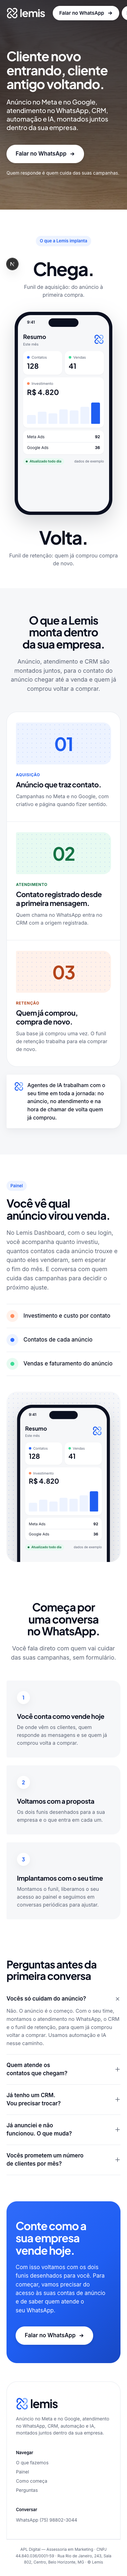
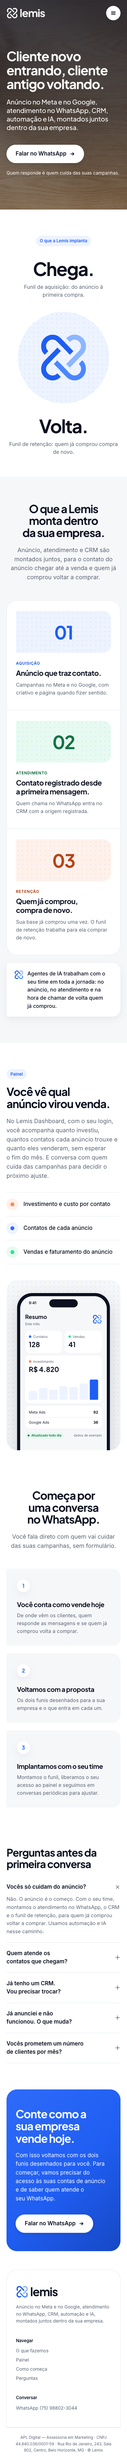
feat(site): celular só no hero e no Painel; laço no Chega/Volta e na chamada final
Revisão do Patrão: o mesmo celular aparecia quatro vezes. O indicador "N" das
capturas era do next dev; capturas refeitas no build. Lighthouse celular 97,
desktop 100, CLS 0.

diff --git a/src/components/secoes/Palco.tsx b/src/components/secoes/Palco.tsx
@@ -1,10 +1,11 @@
 import { palco } from "@/lib/conteudo";
-import { Celular } from "../Celular";
 import { Etiqueta } from "../ui/Etiqueta";
 
-// O celular no centro e as duas palavras dos lados, como no protótipo: "Chega." (aquisição) à
-// esquerda, "Volta." (retenção) à direita, com o mesmo peso (decisão 5 da copy). No celular, as
-// palavras vão para cima e para baixo do aparelho.
+// As duas palavras dos lados, como no protótipo: "Chega." (aquisição) à esquerda, "Volta."
+// (retenção) à direita, com o mesmo peso (decisão 5 da copy). No centro, o laço grande sobre o
+// pontilhado: o manual o descreve como a ligação contínua, o funil que não perde o cliente. O celular
+// do painel já aparece no hero e na seção Painel (revisão do Patrão, 23/10: quatro celulares iguais
+// ficavam repetitivos).
 export function Palco() {
   return (
     <section aria-labelledby="palco-etiqueta" className="overflow-hidden pt-20 pb-16 lg:pt-[120px] lg:pb-10">
@@ -14,7 +15,10 @@ export function Palco() {
         </p>
         <div className="mt-10 grid items-center gap-10 lg:grid-cols-[1fr_auto_1fr] lg:gap-8">
           <Lado palavra={palco.esquerda.palavra} linha={palco.esquerda.linha} lado="esquerda" />
-          <Celular className="mx-auto lg:order-none" />
+          <div aria-hidden="true" className="pontos mx-auto grid size-[280px] place-items-center rounded-full bg-azul-50 sm:size-[340px] lg:size-[420px]">
+            {/* eslint-disable-next-line @next/next/no-img-element -- laço da marca */}
+            <img src="/marca/simbolo-cor.svg" alt="" width={220} height={220} className="size-[150px] sm:size-[180px] lg:size-[220px]" />
+          </div>
           <Lado palavra={palco.direita.palavra} linha={palco.direita.linha} lado="direita" />
         </div>
       </div>

diff --git a/src/components/secoes/ChamadaFinal.tsx b/src/components/secoes/ChamadaFinal.tsx
@@ -1,12 +1,13 @@
 import { chamadaFinal } from "@/lib/conteudo";
-import { Celular } from "../Celular";
 import { BotaoWhatsApp } from "../ui/BotaoWhatsApp";
 
-// O bloco azul do fim (protótipo): o próximo passo concreto e o celular inclinado, cortado pela base.
+// O bloco azul do fim (protótipo): o próximo passo concreto e, à direita, o laço claro sobre o azul
+// (`simbolo-claros-sobre-azul`, manual §1), grande e cortado pela borda. O celular saiu daqui para não
+// repetir a mesma tela pela quarta vez (revisão do Patrão, 23/10).
 export function ChamadaFinal() {
   return (
     <section aria-labelledby="chamada-titulo" className="px-5 sm:px-10 lg:px-14">
-      <div className="gradiente-final relative mx-auto grid max-w-[1328px] overflow-hidden rounded-xl px-7 pt-14 pb-14 sm:px-12 lg:h-[520px] lg:grid-cols-[1.1fr_1fr] lg:px-20 lg:pt-20 lg:pb-0">
+      <div className="gradiente-final relative mx-auto grid max-w-[1328px] overflow-hidden rounded-xl px-7 pt-14 pb-14 sm:px-12 lg:min-h-[440px] lg:grid-cols-[1.1fr_1fr] lg:items-center lg:px-20 lg:py-20">
         <div>
           <h2 id="chamada-titulo" className="text-[34px] leading-[1.1] tracking-[-0.035em] text-white lg:text-[44px]">
             {chamadaFinal.titulo}
@@ -17,9 +18,8 @@ export function ChamadaFinal() {
           </BotaoWhatsApp>
         </div>
         <div aria-hidden="true" className="relative hidden lg:block">
-          <div className="absolute top-2.5 left-[150px] rotate-6">
-            <Celular />
-          </div>
+          {/* eslint-disable-next-line @next/next/no-img-element -- laço da marca */}
+          <img src="/marca/simbolo-claros-sobre-azul.svg" alt="" width={460} height={460} className="absolute top-1/2 -right-16 size-[460px] -translate-y-1/2" />
         </div>
       </div>
     </section>

diff --git a/docs/demanda-2026-10-23-site/RESUMO.md b/docs/demanda-2026-10-23-site/RESUMO.md
@@ -23,6 +23,11 @@ Branch `feat/site-identidade-nova`, aberta da main em `a30c287` (worktree `~/Pro
 - Contraste dos pares novos ≥ 4,5:1. O mais apertado é branco sobre o topo do degradê, 4,56:1, igual ao manual.
 - Capturas em `capturas/`: desktop 1440 (página inteira), celular 390 (página inteira e telas), menu do celular aberto, tablet 768 e a OG.
 
+## Revisão do Patrão (23/10)
+
+1. **Indicador "N" no canto do hero:** é do `next dev`, não vaza no build. Conferido no `next start`: não há `nextjs-portal` na página, e as capturas foram refeitas no build de produção.
+2. **O mesmo celular quatro vezes:** agora aparece só no hero e na seção Painel. No "Chega. / Volta." entra o laço grande sobre o pontilhado, e na chamada final o laço claro sobre o azul (`simbolo-claros-sobre-azul`). Não variei as telas do celular porque a copy fixa os rótulos dele "em todas as telas"; uma tela de funil ou de ranking pediria texto novo. No celular, o aparelho aparece uma vez só.
+
 ## Decisões tomadas pelo Dash Lemis (autorização do Vinicius de 23/10 pela madrugada, via Patrão: "AGILIZA o que tiver de fazer, eu autorizo, só faz tudo")
 
 Cada uma é a recomendação do Dash. Fica a marca abaixo até o sim dele de manhã, que é também o sim para publicar.
